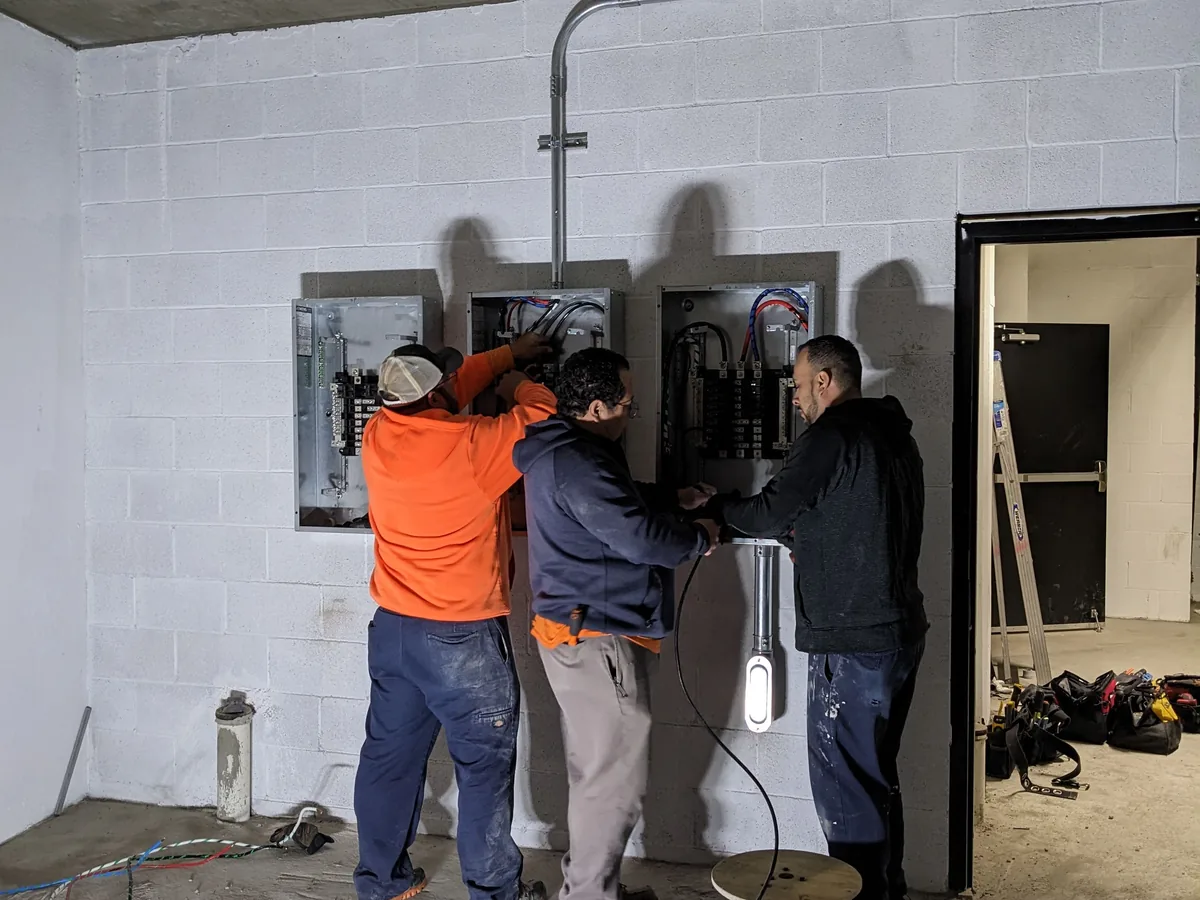
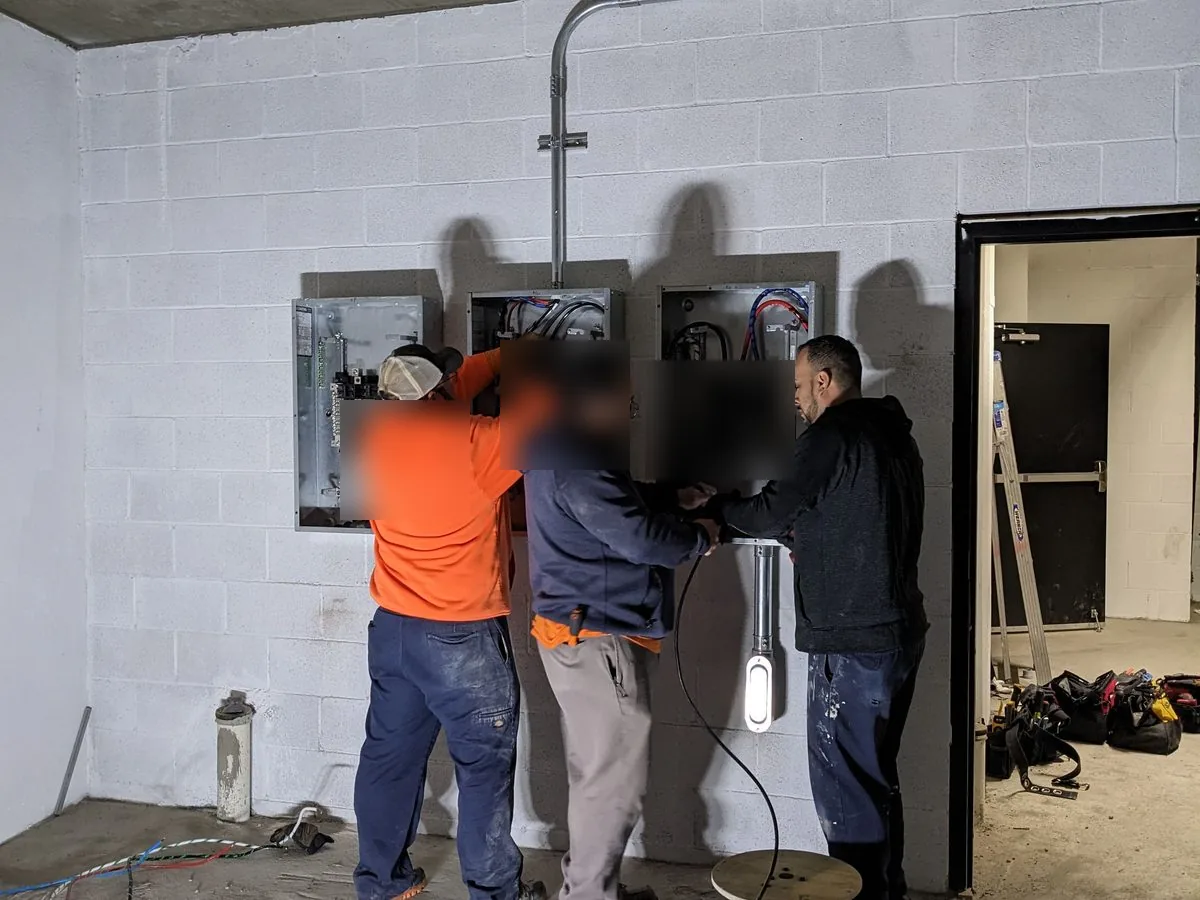
Privacy redactions: custom crop panel-dual-meter + face blur on 3 team photos + redact unit number
- gallery-panel-dual-meter: re-processed from source with tighter crop
  that excludes LADWP account number and handwritten unit number '7938'
- gallery-commercial-parking-team: Gaussian blur on 3 workers' faces
- gallery-lighting-commercial-install: Gaussian blur on 2 workers' faces
- gallery-team-utility-lines: Gaussian blur on 1 worker's face
- gallery-roughin-steel-stud: black box over '302' unit number
- process-photos.py: added custom_crop column support in manifest CSV
- photo-manifest.csv: added header + custom crop coords for dual-meter
- redact-photos.py: new script for targeted privacy redactions

Changed region(s): [[0.2775, 0.3733, 0.6783, 0.5911], [0.4008, 0.3733, 0.4317, 0.4044]]

diff --git a/scripts/redact-photos.py b/scripts/redact-photos.py
@@ -1,0 +1,99 @@
+#!/usr/bin/env python3
+"""Redact or blur privacy-sensitive content from published gallery photos.
+
+Usage: python3 scripts/redact-photos.py
+Outputs: overwrites img/gallery/{slug}-1200w.webp, -1200w.jpg, -400w.webp in place.
+"""
+from pathlib import Path
+
+from PIL import Image, ImageDraw, ImageFilter
+
+OUT = Path(__file__).parent.parent / "img" / "gallery"
+QUALITY = 82
+QUALITY_THUMB = 75
+FACE_BLUR_RADIUS = 12
+
+# Each entry: slug, list of (x1, y1, x2, y2) boxes in 1200x900 coords
+# faces → Gaussian blur, text → black box
+REDACTIONS = {
+    "gallery-commercial-parking-team": [
+        # Worker 1 (orange hoodie, crouching, partial face)
+        (340, 400, 470, 520),
+        # Worker 2 (dark hoodie, back to camera, partial profile)
+        (500, 340, 630, 470),
+        # Worker 3 (black hoodie, full face profile)
+        (645, 360, 795, 480),
+    ],
+    "gallery-lighting-commercial-install": [
+        # Worker 1 (green shirt on ladder, face profile)
+        (490, 100, 690, 260),
+        # Worker 2 (orange shirt, full face with glasses)
+        (480, 440, 690, 660),
+    ],
+    "gallery-team-utility-lines": [
+        # Worker in dark blue jacket, full face with glasses
+        (370, 320, 650, 680),
+    ],
+    "gallery-roughin-steel-stud": [
+        # "302" handwritten on drywall
+        (400, 250, 605, 360),
+    ],
+}
+
+
+def blur_box(im, box):
+    """Apply Gaussian blur to a region."""
+    x1, y1, x2, y2 = box
+    region = im.crop(box)
+    blurred = region.filter(ImageFilter.GaussianBlur(FACE_BLUR_RADIUS))
+    im.paste(blurred, box)
+
+
+def blackout_box(im, box):
+    """Draw a black rectangle."""
+    draw = ImageDraw.Draw(im)
+    draw.rectangle(box, fill="black")
+
+
+def main():
+    for slug, boxes in REDACTIONS.items():
+        src_1200 = OUT / f"{slug}-1200w.jpg"
+        if not src_1200.exists():
+            print(f"SKIP: {src_1200} not found")
+            continue
+
+        is_text = "steel-stud" in slug
+        action = "Redacting text" if is_text else "Blurring faces"
+        print(f"{action}: {slug}")
+
+        with Image.open(src_1200) as im:
+            im = im.convert("RGB")
+
+            for box in boxes:
+                x1, y1, x2, y2 = box
+                w, h = im.size
+                x1 = max(0, min(w, x1))
+                y1 = max(0, min(h, y1))
+                x2 = max(0, min(w, x2))
+                y2 = max(0, min(h, y2))
+                if is_text:
+                    blackout_box(im, (x1, y1, x2, y2))
+                else:
+                    blur_box(im, (x1, y1, x2, y2))
+
+            # Save 1200w variants
+            im.save(OUT / f"{slug}-1200w.webp", "WEBP", quality=QUALITY, method=6)
+            im.save(OUT / f"{slug}-1200w.jpg", "JPEG", quality=QUALITY, optimize=True)
+
+            # 400w thumbnail
+            ratio = 400.0 / w
+            thumb = im.resize((400, int(h * ratio)), Image.LANCZOS)
+            thumb.save(OUT / f"{slug}-400w.webp", "WEBP", quality=QUALITY_THUMB, method=6)
+
+            print(f"  OK ({w}x{h})")
+
+    print("Done.")
+
+
+if __name__ == "__main__":
+    main()

diff --git a/scripts/process-photos.py b/scripts/process-photos.py
@@ -36,8 +36,14 @@ def exif_transpose_fix(im):
     return im.copy()
 
 
-def center_crop_4_3(im):
-    """Crop to 4:3 landscape ratio, centered."""
+def center_crop_4_3(im, custom=None):
+    """Crop to 4:3 landscape ratio, centered.
+
+    If `custom` is provided as (x1, y1, x2, y2) in source pixel coords,
+    use that region directly. Otherwise crop to 4:3 centered.
+    """
+    if custom is not None:
+        return im.crop(custom)
     w, h = im.size
     target = w / 4 * 3
     if h > target:
@@ -57,13 +63,23 @@ def process_one(row):
     caption = row["caption"].strip()
     city = row.get("city", "").strip()
     year = row.get("year", "").strip()
+    custom_crop = (row.get("custom_crop") or "").strip()
 
     src_path = SRC / source
     if not src_path.exists():
         print(f"  SKIP: {source} not found")
         return
 
-    print(f"  Processing: {source} → {slug}")
+    crop = None
+    if custom_crop:
+        try:
+            crop = tuple(int(x) for x in custom_crop.split(","))
+            assert len(crop) == 4
+        except (ValueError, AssertionError):
+            print(f"  WARN: bad custom_crop '{custom_crop}', using centered")
+            crop = None
+
+    print(f"  Processing: {source} → {slug}" + (f" (custom crop {crop})" if crop else ""))
     with Image.open(src_path) as im:
         # Fix orientation
         im = exif_transpose_fix(im)
@@ -75,8 +91,8 @@ def process_one(row):
         if im.mode != "RGB":
             im = im.convert("RGB")
 
-        # Crop to 4:3
-        im = center_crop_4_3(im)
+        # Crop
+        im = center_crop_4_3(im, custom=crop)
 
         w, h = im.size
 
